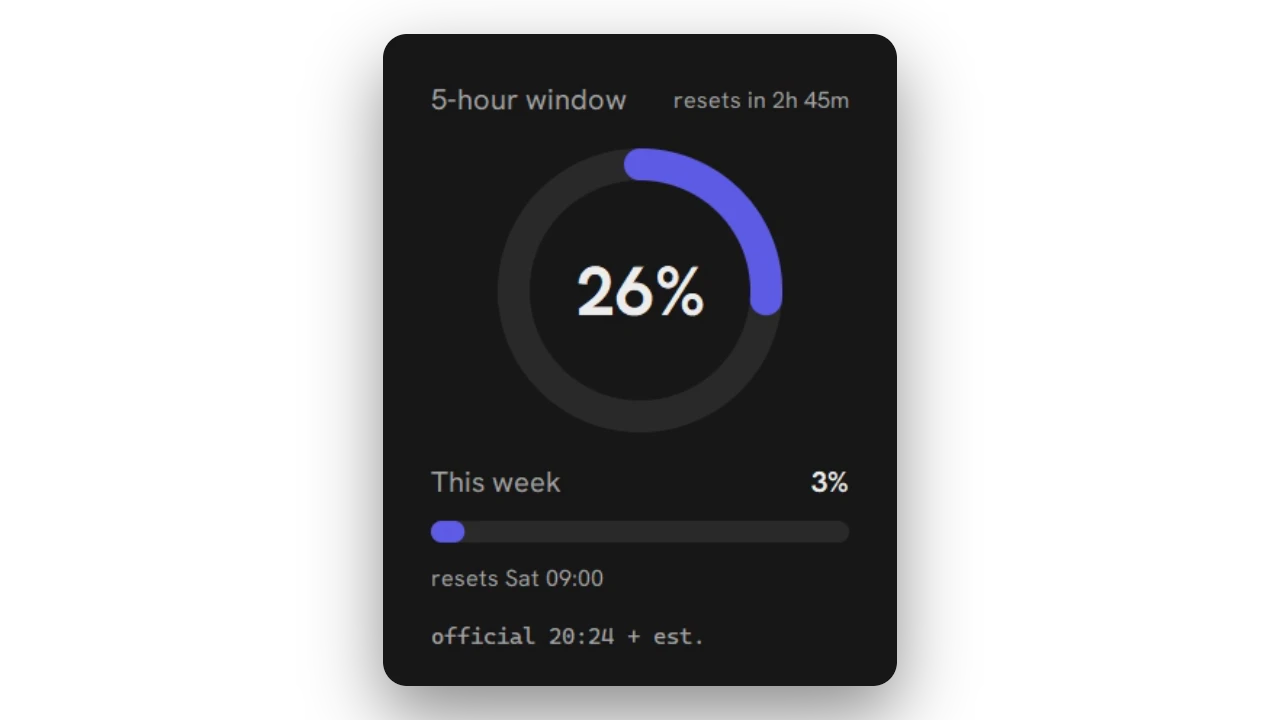
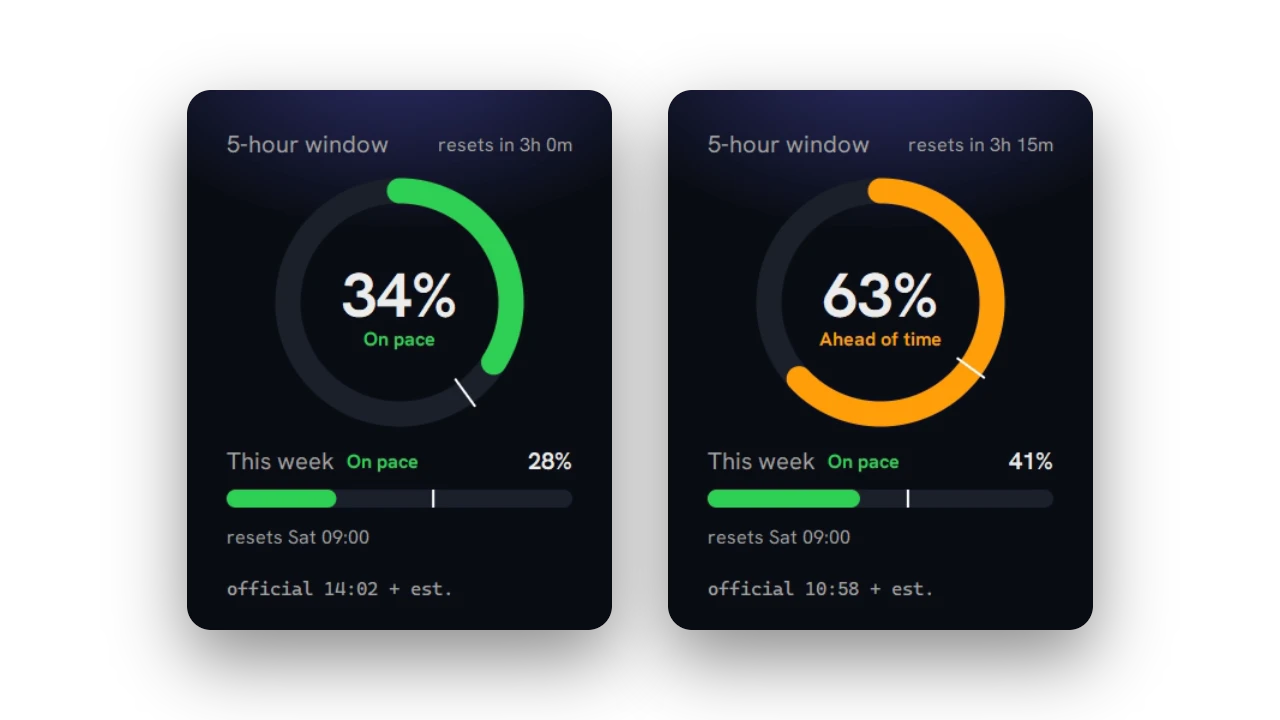
Projects - usage widget card in its new look

diff --git a/CLAUDE.md b/CLAUDE.md
@@ -93,6 +93,7 @@ In the sweep, after Jack confirms a feature, every UI change passes these:
 ## Testing habits
 
 - The dev preview runs in this folder (`cwd` in launch.json): run from anywhere else, whatever the build reads from git or files (Now's date, the Changelog, the Build Log) comes up empty. While other sessions edit files, the dev server reloads a page under a probe: block its live-reload connection in the probe.
+- The dev server serves a picture from `src/assets/` at an address that doesn't change with the file, and tells the browser to keep it for a year: after replacing one under the same name, Ctrl+F5 shows the new one.
 - Headless Chrome here runs WebGL2 on the laptop's real GPU, and its screen runs at 90 Hz with devicePixelRatio 1.5: time GPU work with `EXT_disjoint_timer_query_webgl2`, not frame gaps alone. Safari and phones need real devices.
 - My preview ports (`C:\repos\Jack\.claude\launch.json`): 4600 serves `dist/`, 4602 is dev (shows drafts), 4604 serves a build in a separate folder, 8790 is the guestbook's Worker with a local copy of its database. A preview's guestbook asks the real Worker: to test posting, answer those requests from 8790 instead (CDP `Fetch`). Jack's own preview is 4321: while it runs, never build into `dist/`; build with `--outDir` into another folder and serve that on my port. A build into a folder outside the project moves its `.astro/` folder into the output: finish with `npm run check` to bring it back.
 - Probe with headless Chrome over CDP; Node 20 needs `node --experimental-websocket`. Probes stay in the scratchpad.

diff --git a/src/content/changelog.md b/src/content/changelog.md
@@ -137,3 +137,4 @@
 - 2026-10-27 improved: Tidied the Toolbox and added OpenCode, Claude SEO and Coolify
 - 2026-10-27 fix: Tidied the date line on Exact Time
 - 2026-10-27 new: Added a music player that keeps playing as you move between pages
+- 2026-10-27 design: Gave the usage widget's project card its new look
